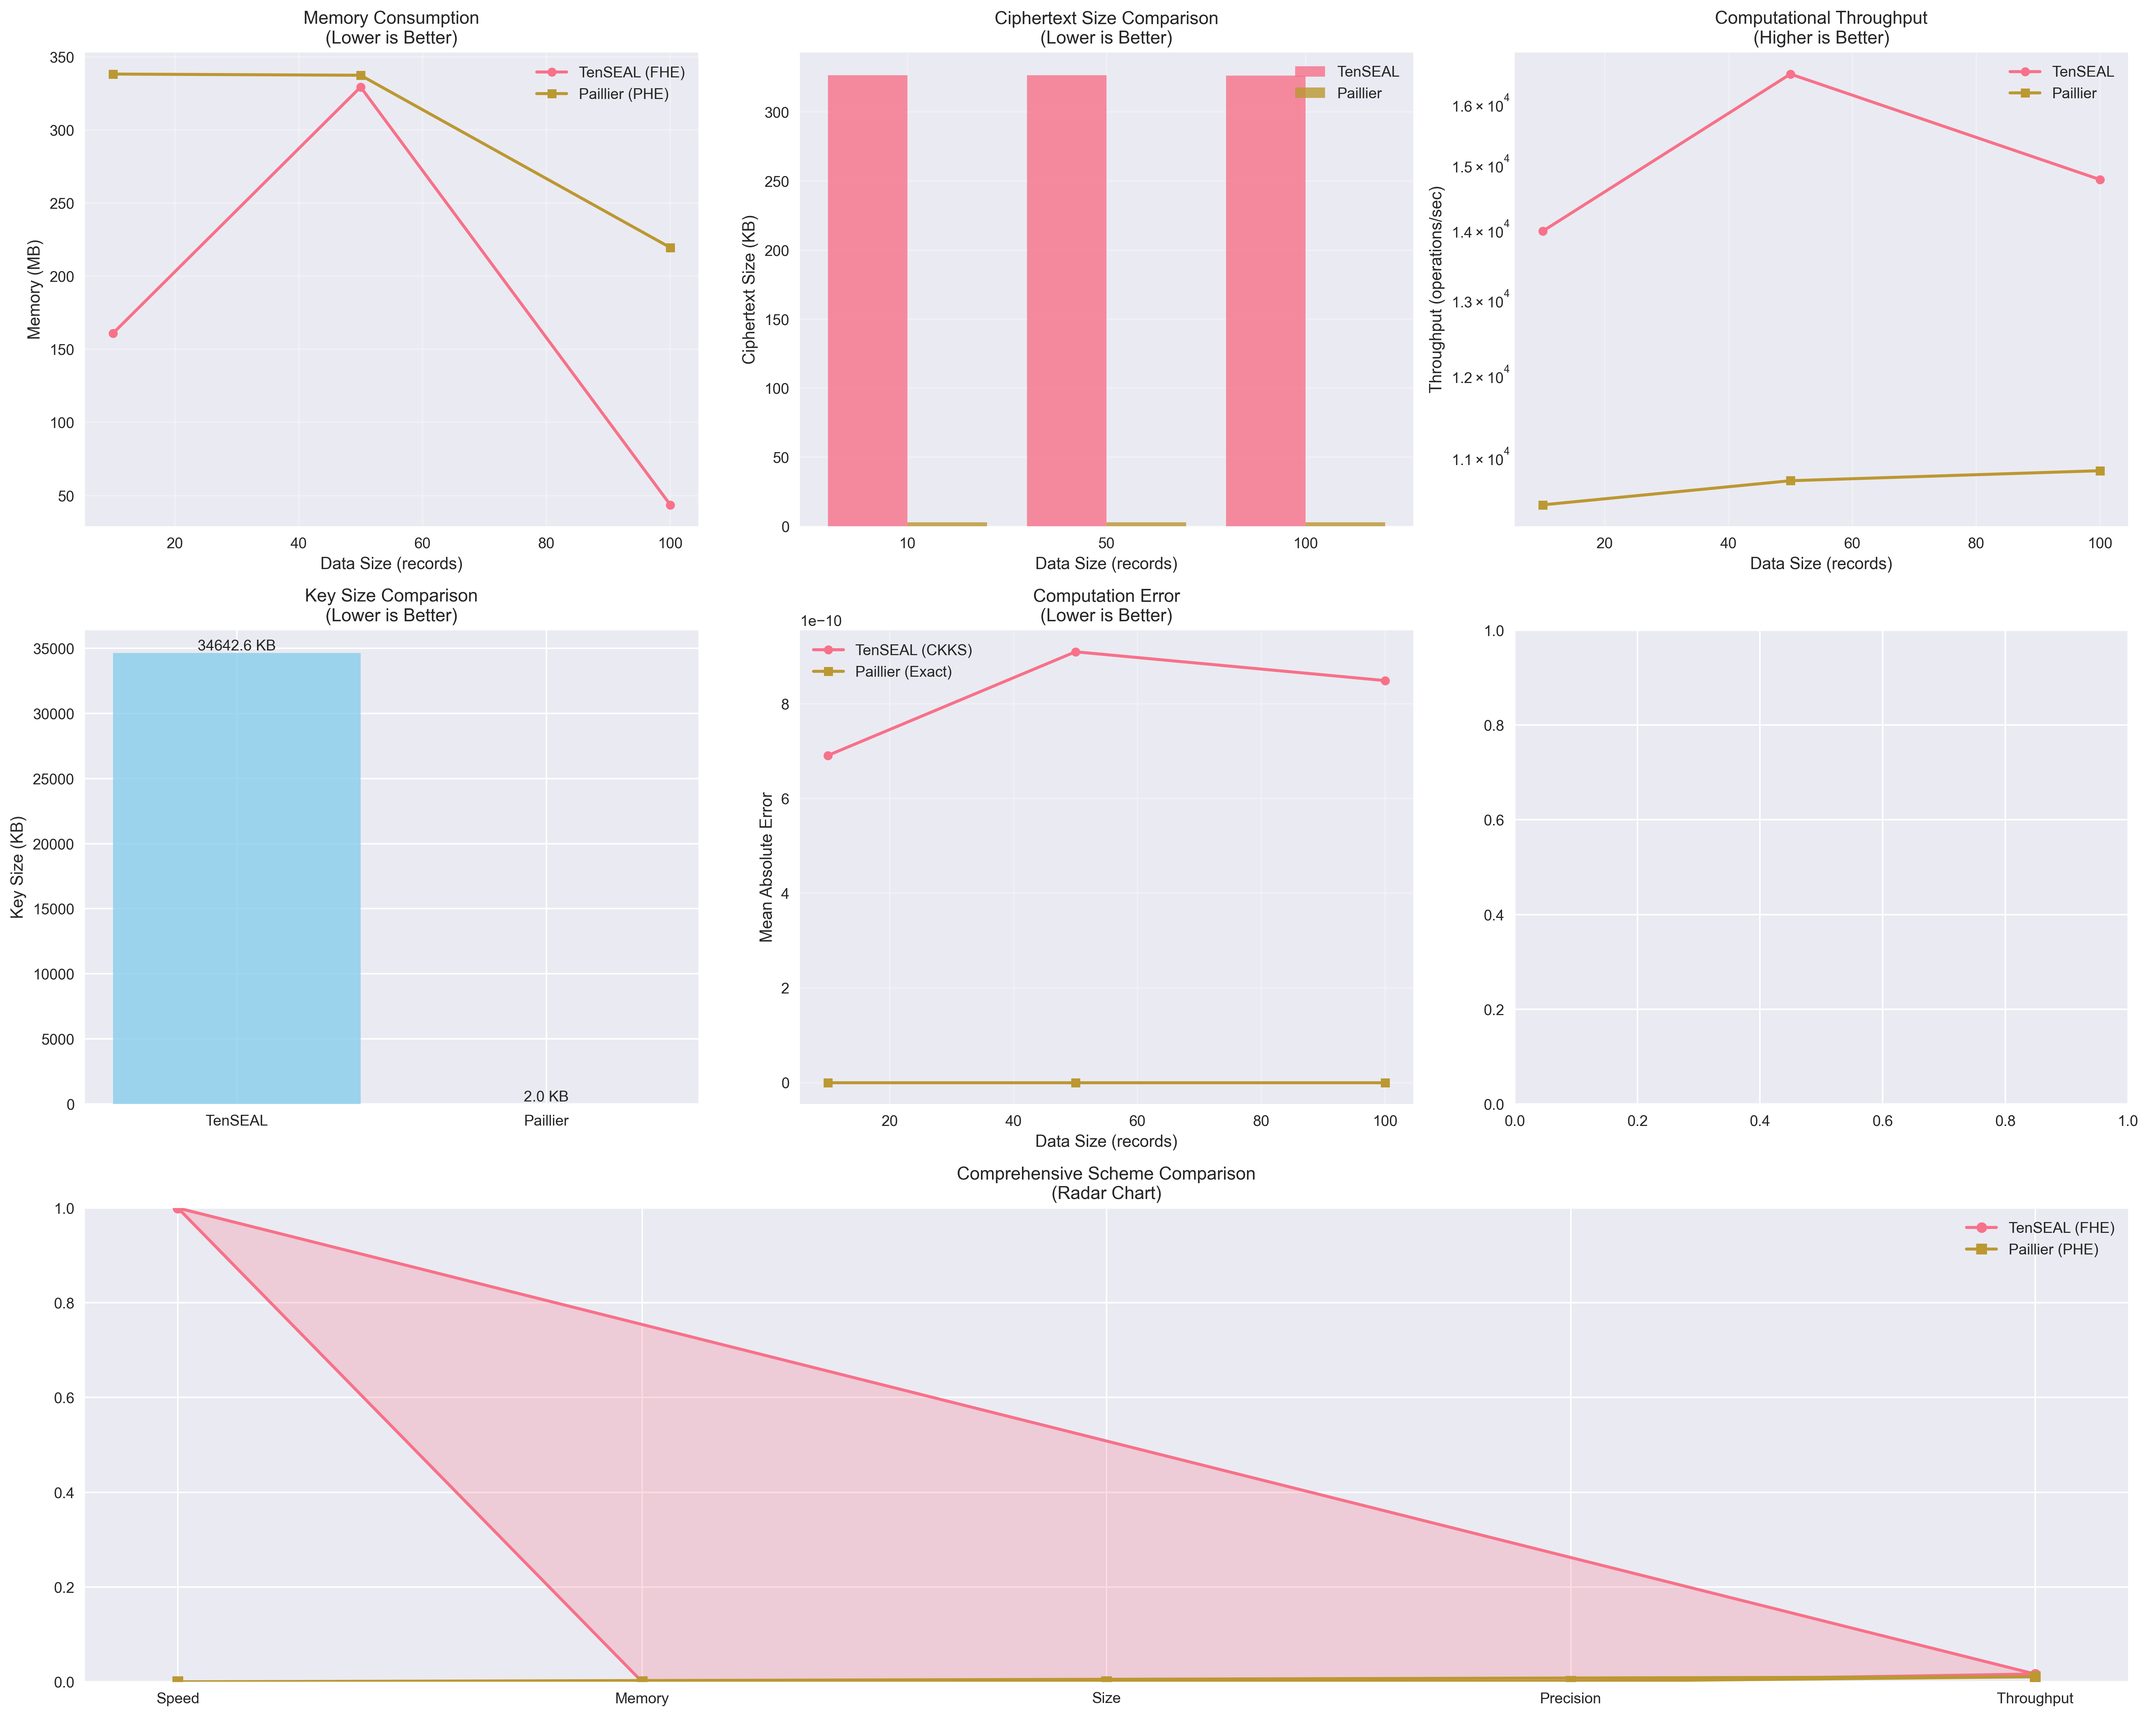
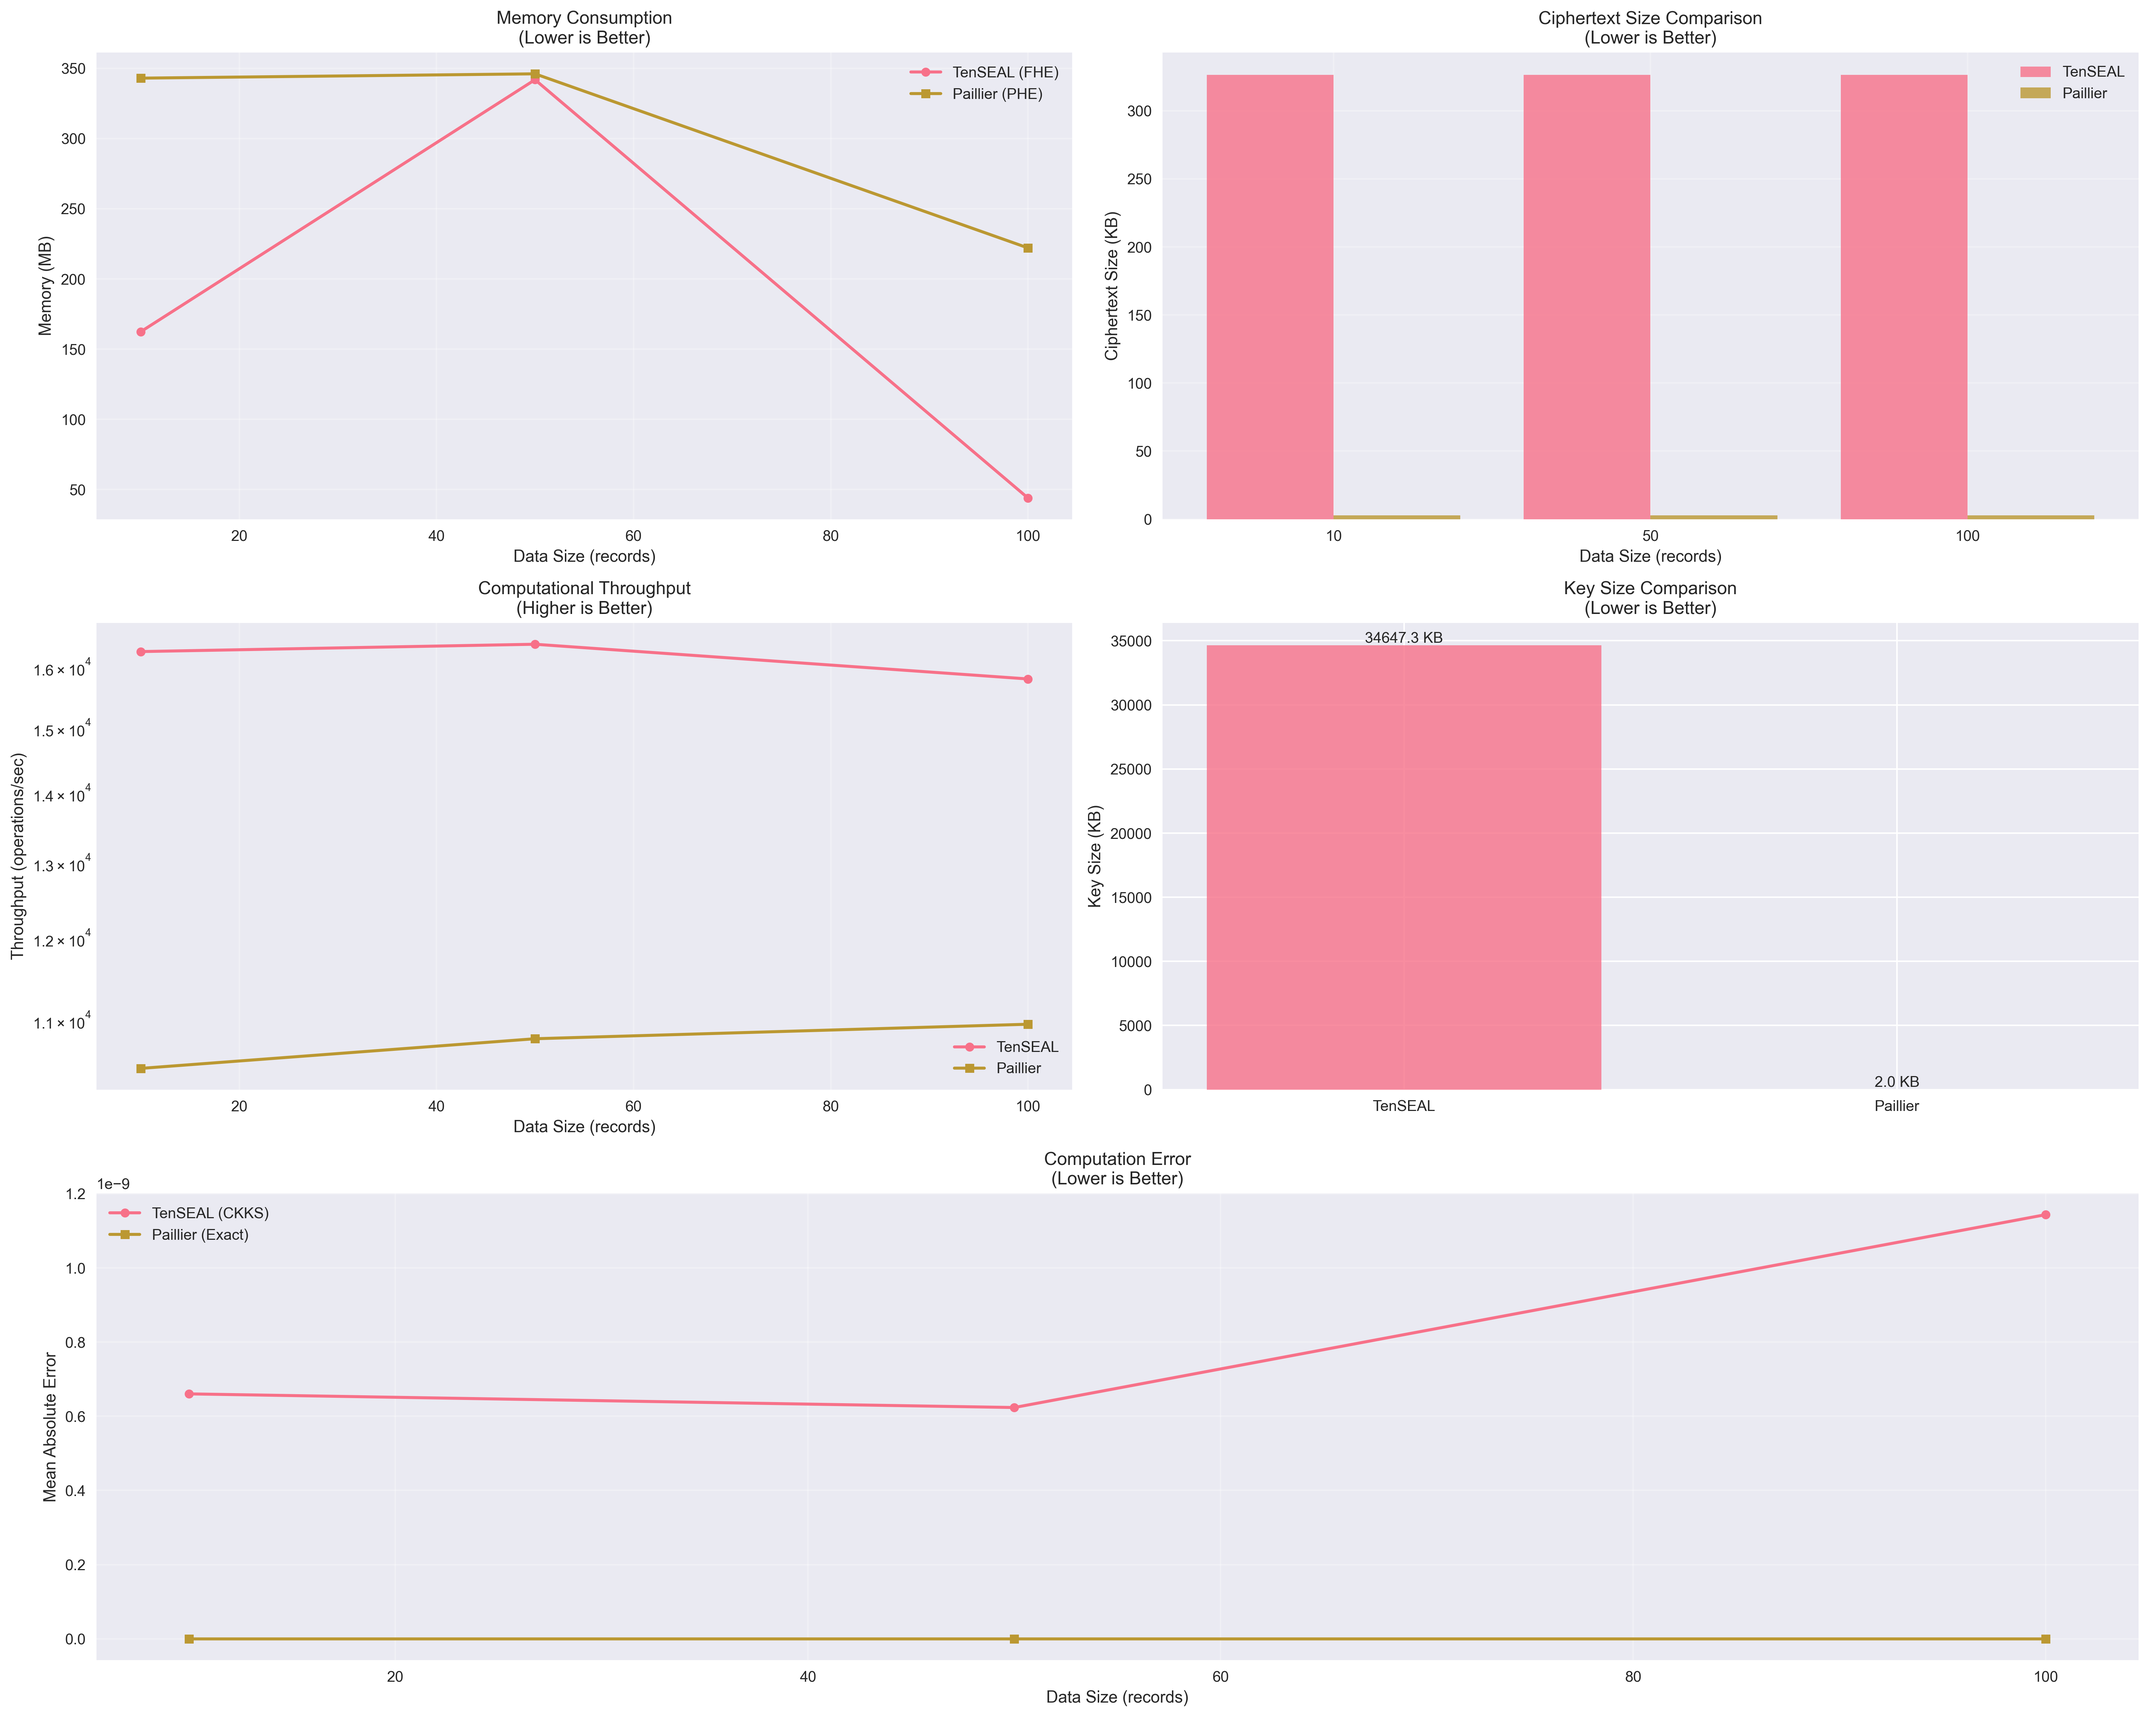
final fhe demo

diff --git a/src/advanced_performance_analyzer.py b/src/advanced_performance_analyzer.py
@@ -1,3 +1,4 @@
+
 import matplotlib.pyplot as plt
 import numpy as np
 import time
@@ -143,61 +144,6 @@ class AdvancedPerformanceAnalyzer:
             'paillier_public_key_size': paillier_key_size
         }
     
-    def analyze_noise_growth(self, tenseal_demo, base_data, operations_chain):
-        """Analyze noise growth through operation chains"""
-        print("Analyzing noise growth...")
-        
-        try:
-            # Encrypt base data
-            encrypted_base = tenseal_demo.encrypt_batch_data([base_data])[0]
-            
-            noise_metrics = []
-            current_encrypted = encrypted_base
-            
-            for i, operation in enumerate(operations_chain):
-                # Apply operation
-                if operation == 'add':
-                    current_encrypted = current_encrypted + current_encrypted
-                elif operation == 'multiply':
-                    current_encrypted = current_encrypted * 2.0
-                elif operation == 'square':
-                    current_encrypted = current_encrypted * current_encrypted
-                
-                # Decrypt and measure deviation from expected
-                decrypted = current_encrypted.decrypt()
-                expected = self._compute_expected_value(base_data, operations_chain[:i+1])
-                
-                error = np.mean(np.abs(np.array(decrypted) - np.array(expected)))
-                noise_metrics.append({
-                    'operation_chain_length': i + 1,
-                    'operations': operations_chain[:i+1],
-                    'mean_error': error,
-                    'max_error': np.max(np.abs(np.array(decrypted) - np.array(expected)))
-                })
-            
-            return noise_metrics
-        except Exception as e:
-            print(f"Warning: Could not analyze noise growth: {e}")
-            return []
-    
-    def _compute_expected_value(self, base_data, operations):
-        """Compute expected value after operation chain"""
-        # Convert to list if it's a numpy array
-        if isinstance(base_data, np.ndarray):
-            result = base_data.tolist()
-        else:
-            result = list(base_data)  # Create a copy as a list
-        
-        for op in operations:
-            if op == 'add':
-                result = [x + x for x in result]
-            elif op == 'multiply':
-                result = [x * 2.0 for x in result]
-            elif op == 'square':
-                result = [x * x for x in result]
-        
-        return result
-    
     def comprehensive_benchmark(self, tenseal_demo, paillier_demo, data_sizes: List[int]):
         """Run comprehensive benchmark with research-grade metrics"""
         print("🚀 Running Comprehensive FHE Benchmark...")
@@ -266,14 +212,6 @@ class AdvancedPerformanceAnalyzer:
                 decrypted_sample = encrypted_data[0].decrypt()
                 error_metrics = self.measure_computation_error(original_sample, decrypted_sample)
                 metrics.update(error_metrics)
-            
-            # Noise growth analysis
-            if feature_matrix.size > 0:
-                # Convert to list properly
-                base_data = feature_matrix[0].tolist() if isinstance(feature_matrix[0], np.ndarray) else list(feature_matrix[0])
-                noise_metrics = self.analyze_noise_growth(tenseal_demo, base_data, 
-                                                        ['add', 'multiply', 'add', 'square'])
-                metrics['noise_growth'] = noise_metrics
         
         except Exception as e:
             print(f"Error in TenSEAL benchmarking: {e}")
@@ -362,36 +300,37 @@ class AdvancedPerformanceAnalyzer:
             print(f"  {display_name:<25} {t_val:<15.2f} {p_val:<15.2f} {ratio:<10}")
     
     def create_research_grade_graphs(self, benchmark_data):
-        """Create publication-quality graphs with research metrics"""
+        """Create publication-quality graphs with research metrics (5-panel layout)"""
         fig = plt.figure(figsize=(20, 16))
         
+        # Layout: 2x2 grid on top, 1 wide plot below (total 5 graphs)
+        gs = fig.add_gridspec(3, 2)
+        
+        # Top row
+        ax1 = fig.add_subplot(gs[0, 0])  # Memory
+        ax2 = fig.add_subplot(gs[0, 1])  # Ciphertext size
+        
+        # Second row
+        ax3 = fig.add_subplot(gs[1, 0])  # Throughput
+        ax4 = fig.add_subplot(gs[1, 1])  # Key size
+        
+        # Third row (spans both columns)
+        ax5 = fig.add_subplot(gs[2, :])  # Computation error
+        
         # 1. Memory Consumption Comparison
-        ax1 = plt.subplot(3, 3, 1)
         self._plot_memory_comparison(ax1, benchmark_data)
         
         # 2. Ciphertext Size Comparison
-        ax2 = plt.subplot(3, 3, 2)
         self._plot_ciphertext_size_comparison(ax2, benchmark_data)
         
         # 3. Throughput Comparison
-        ax3 = plt.subplot(3, 3, 3)
         self._plot_throughput_comparison(ax3, benchmark_data)
         
         # 4. Key Size Comparison
-        ax4 = plt.subplot(3, 3, 4)
         self._plot_key_size_comparison(ax4, benchmark_data)
         
         # 5. Computation Error
-        ax5 = plt.subplot(3, 3, 5)
         self._plot_computation_error(ax5, benchmark_data)
-        
-        # 6. Noise Growth Analysis
-        ax6 = plt.subplot(3, 3, 6)
-        self._plot_noise_growth(ax6, benchmark_data)
-        
-        # 7. Comprehensive Radar Chart
-        ax7 = plt.subplot(3, 3, (7, 9))
-        self._plot_radar_chart(ax7, benchmark_data)
         
         plt.tight_layout()
         plt.savefig(f'{self.results_dir}/research_grade_comparison.png', dpi=300, bbox_inches='tight')
@@ -455,7 +394,7 @@ class AdvancedPerformanceAnalyzer:
             schemes = ['TenSEAL', 'Paillier']
             key_sizes = [tenseal_key, paillier_key]
             
-            bars = ax.bar(schemes, key_sizes, color=['skyblue', 'lightcoral'], alpha=0.8)
+            bars = ax.bar(schemes, key_sizes, alpha=0.8)
             ax.set_ylabel('Key Size (KB)')
             ax.set_title('Key Size Comparison\n(Lower is Better)')
             
@@ -478,78 +417,8 @@ class AdvancedPerformanceAnalyzer:
         ax.legend()
         ax.grid(True, alpha=0.3)
     
-    def _plot_noise_growth(self, ax, data):
-        """Plot noise growth analysis"""
-        if data['tenseal'] and 'noise_growth' in data['tenseal'][0]:
-            noise_data = data['tenseal'][0]['noise_growth']
-            if noise_data:  # Check if noise_data is not empty
-                chain_lengths = [ng['operation_chain_length'] for ng in noise_data]
-                errors = [ng['mean_error'] for ng in noise_data]
-                
-                ax.plot(chain_lengths, errors, 'o-', linewidth=2, markersize=6, color='purple')
-                ax.set_xlabel('Operation Chain Length')
-                ax.set_ylabel('Mean Error')
-                ax.set_title('CKKS Noise Growth\n(With Operation Chains)')
-                ax.grid(True, alpha=0.3)
-    
-    def _plot_radar_chart(self, ax, data):
-        """Create comprehensive radar chart"""
-        if not data['tenseal'] or not data['paillier']:
-            return
-        
-        # Normalize metrics for radar chart (higher is better for some, lower for others)
-        categories = ['Speed', 'Memory', 'Size', 'Precision', 'Throughput']
-        
-        # Use data from medium-sized test for representative values
-        mid_idx = len(data['data_sizes']) // 2
-        t_metrics = data['tenseal'][mid_idx]
-        p_metrics = data['paillier'][mid_idx]
-        
-        # Normalize values (this is simplified - in reality you'd want careful normalization)
-        tenseal_values = [
-            1/max(t_metrics.get('encryption_time', 1), 0.001) * 1000,  # Speed (inverse of time)
-            1/max(t_metrics.get('encryption_memory_mb', 1), 0.001),    # Memory (inverse)
-            1/max(t_metrics.get('ciphertext_size_bytes', 1)/1024, 0.001),  # Size (inverse)
-            1/(t_metrics.get('mean_absolute_error', 1) + 0.001), # Precision (inverse error)
-            t_metrics.get('throughput_ops_sec', 1)         # Throughput (direct)
-        ]
-        
-        paillier_values = [
-            1/max(p_metrics.get('encryption_time', 1), 0.001) * 1000,
-            1/max(p_metrics.get('encryption_memory_mb', 1), 0.001),
-            1/max(p_metrics.get('ciphertext_size_bytes', 1)/1024, 0.001),
-            1/(p_metrics.get('mean_absolute_error', 1) + 0.001),
-            p_metrics.get('throughput_ops_sec', 1)
-        ]
-        
-        # Normalize to 0-1 scale for radar chart
-        max_val = max(max(tenseal_values), max(paillier_values))
-        if max_val > 0:
-            tenseal_norm = [v/max_val for v in tenseal_values]
-            paillier_norm = [v/max_val for v in paillier_values]
-        else:
-            tenseal_norm = [0] * len(tenseal_values)
-            paillier_norm = [0] * len(paillier_values)
-        
-        # Complete the circle
-        angles = np.linspace(0, 2*np.pi, len(categories), endpoint=False).tolist()
-        tenseal_norm += tenseal_norm[:1]
-        paillier_norm += paillier_norm[:1]
-        angles += angles[:1]
-        
-        ax.plot(angles, tenseal_norm, 'o-', linewidth=2, label='TenSEAL (FHE)')
-        ax.fill(angles, tenseal_norm, alpha=0.25)
-        ax.plot(angles, paillier_norm, 's-', linewidth=2, label='Paillier (PHE)')
-        ax.fill(angles, paillier_norm, alpha=0.25)
-        
-        ax.set_xticks(angles[:-1])
-        ax.set_xticklabels(categories)
-        ax.set_ylim(0, 1)
-        ax.set_title('Comprehensive Scheme Comparison\n(Radar Chart)')
-        ax.legend(loc='upper right')
-        ax.grid(True)
-    
     def _create_metrics_table(self, data):
+       
         """Create a summary metrics table"""
         if not data['tenseal'] or not data['paillier']:
             return
@@ -579,8 +448,8 @@ class AdvancedPerformanceAnalyzer:
                 f"{t_metrics.get('throughput_ops_sec', 0):.2f}",
                 f"{t_metrics.get('mean_absolute_error', 0):.6f}",
                 "Fully Homomorphic",
-                "✅ Yes",
-                "✅ Yes"
+                "Yes",
+                "Yes"
             ],
             'Paillier': [
                 f"{p_metrics.get('encryption_time', 0):.4f}",
@@ -590,8 +459,8 @@ class AdvancedPerformanceAnalyzer:
                 f"{p_metrics.get('throughput_ops_sec', 0):.2f}",
                 f"{p_metrics.get('mean_absolute_error', 0):.6f}",
                 "Partially Homomorphic", 
-                "❌ No",
-                "❌ No"
+                "No",
+                "No"
             ]
         }
         
@@ -607,3 +476,5 @@ class AdvancedPerformanceAnalyzer:
         print(df.to_string(index=False))
         
         return df
+
+

diff --git a/run_demo.py b/run_demo.py
@@ -13,7 +13,7 @@ from src.advanced_performance_analyzer import AdvancedPerformanceAnalyzer
 from src.data_simulator import MedicalDataSimulator
 
 def main():
-    print("🔬 FHE Medical Research Demo - Comprehensive Comparison")
+    print("FHE Medical Research Demo - Comprehensive Comparison")
     print("=" * 60)
     
     # Initialize components
@@ -38,21 +38,19 @@ def main():
     print("\n3. Running Paillier (Partial HE) Demo...")
     paillier_results = paillier_demo.demonstrate_operations([rec['age'] for rec in sample_records[:5]])
     
-    print("\n4. Running Research-Grade Performance Benchmark...")
+    print("\n4. Running Performance Benchmarks...")
     advanced_analyzer = AdvancedPerformanceAnalyzer()
 
     comprehensive_metrics = advanced_analyzer.comprehensive_benchmark(
         tenseal_demo, paillier_demo, [10, 50, 100]
     )
 
-    print("\n5. Generating Research-Grade Graphs...")
+    print("\n5. Generating Graphs...")
     advanced_analyzer.create_research_grade_graphs(comprehensive_metrics)
 
     
     print("\n" + "=" * 60)
-    print("🎉 Demo Complete!")
-    print("📊 Check 'results/graphs/' directory for performance charts")
-    print("💡 Review the recommendations above for choosing between FHE schemes")
+    print("Demo Complete")
     print("=" * 60)
 
 if __name__ == "__main__":
